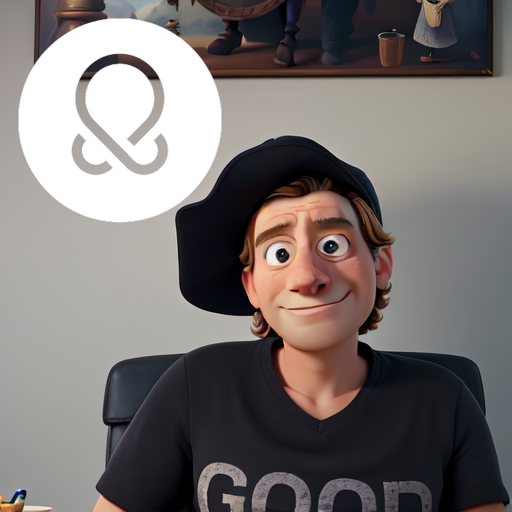
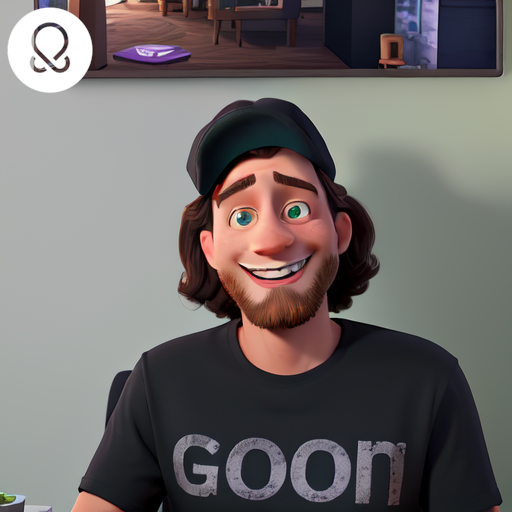
Dialing in the workflow for taking the image!

diff --git a/websites/cartoonizer/cartoonizer.py b/websites/cartoonizer/cartoonizer.py
@@ -213,6 +213,8 @@ st.title("🤩 Cartoonizer")
 # my_upload = st.file_uploader("Upload an image", type=["png", "jpg", "jpeg"])
 my_upload = st.camera_input('📸 Take a picture!')
 
+col1, col2 = st.columns(2)
+
 # if my_upload is not None:
 #     st.image(my_upload, caption="Captured image")
 
@@ -234,7 +236,7 @@ if my_upload is not None:
 
     seed = 0
     
-    if st.button('Generate New Cartoon!'):
+    if st.button('Generate New Variation!'):
         seed = random.randint(0, 1024)
 
     with st.expander("Add more context to customize the output"):
@@ -245,8 +247,7 @@ if my_upload is not None:
         3, 10, 4)
     
     cartoonize_image(my_upload, strength, seed, extra_desc)
-
-
+        
 
 # # Display the image and the share button using streamlit components
 # # st.image(cartoonized, caption="Generated image")
